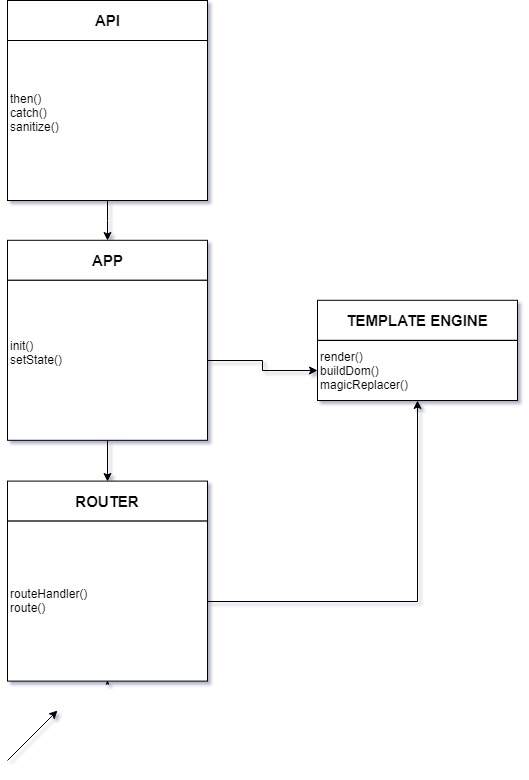
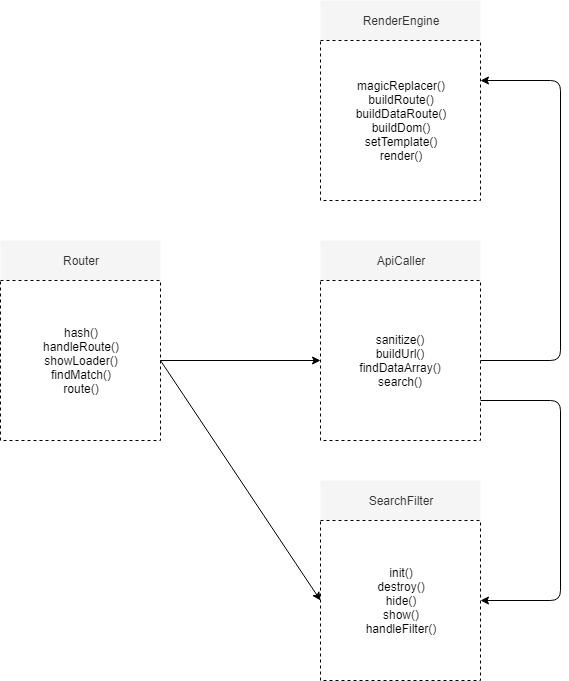
docs

diff --git a/modules/SearchFilter.js b/modules/SearchFilter.js
@@ -12,7 +12,6 @@ class Filter{
 			this.elements = document.querySelectorAll(".source");
 			this.container = document.querySelector("#view");
 			this.kb = this.input.addEventListener("keyup",this.handleFilter.bind(this),true);
-			console.log(this.container);
 		}
 	}
 
@@ -22,11 +21,17 @@ class Filter{
 		}
 	}
 
+	hide() {
+		document.getElementById("ui").classList.add("hide");
+	}
+
+	show() {
+		document.getElementById("ui").classList.remove("hide");
+	}
+
 	handleFilter() {
-		console.log(this.container)
 		this.container.innerHTML = "";
 		const newElements = [];
-		console.log(this.input.value);
 		for(let i = 0; i < this.elements.length; i++) {
 		    if(this.elements[i].querySelector("h1").innerHTML.toLowerCase().indexOf(this.input.value) >= 0) {
 		      newElements.push(this.elements[i])

diff --git a/modules/router.js b/modules/router.js
@@ -14,7 +14,6 @@ class Router{
 	  this.initialRoute = initial;
 	  this.loadInterval = null;
 	  if(!window.location.hash){
-	  	console.log(window.location.hash);
 	  	window.location.hash = this.initialRoute;
 	  };
 	  window.onload = () => {
@@ -33,13 +32,15 @@ class Router{
 
 		if(window.location.hash !== "#home") {
 			filter.destroy();
+			filter.hide();
+		}else if(window.location.hash === "#home") {
+			filter.show();
 		}
 		const param = this.hash();	
 		this.findMatch(param);
 	};
 
 	showLoader() {
-		console.log("check")
 		if(!document.querySelector("#loader")) {
 			document.querySelector("#view").innerHTML = `
 				<div id="loader">

diff --git a/modules/renderengine.js b/modules/renderengine.js
@@ -51,7 +51,6 @@ class RenderEngine extends EasyRequest{
 		super.open("GET",this.templateRoute,true);
 		super.send();
 		this.data = data;
-		console.log(data);
 		this.then((res) => {
 			this.buildDom(res);
 			cb();

diff --git a/css/style.css b/css/style.css
@@ -39,3 +39,12 @@ section a {
 	text-align: center;
 	text-decoration: none;
 }
+
+#ui {
+	position: fixed;
+	transition: 0.5s;
+}
+
+.hide {
+	transform: translateY(-50px);
+}

diff --git a/README.md b/README.md
@@ -1,4 +1,5 @@
 # WAFS
+![Home](./assets/home.jpg)
 
 ## Demo
 [Here](https://zekkie.github.io/web-app-from-scratch-18-19/)
@@ -8,14 +9,21 @@
  I'm using the api of the newsapi. Funny enough that is the actual name of the api. 
  [Can be found here](https://newsapi.org)
 
+### Type 
+Rest
+
+### Ratelimit
+1000 calls per day
+
+### Enpoints used
+
+/source
+/everything
 
 ## App discription
 
-The is basicly a news reader where users can read newsarticles of different papers. The ratelimit for the DEV api is unfortunatly only 1000 requests per day.
+The is basicly a news reader where users can read newsarticles from different papers. 
 
-## What have I been doing untill  now
-I came across some problems with the API I initially wanted to use. Important part's are no longer usable without the aproval of the author first. And Oauth.. You don't want to come across this during this assignment.
-I've been experimenting with classes and inheriting in JS. Came up with a solution that might be redundant, but I think it is a good exercise. 
 
 
 ## Actor Diagram
@@ -29,6 +37,8 @@ I've been experimenting with classes and inheriting in JS. Came up with a soluti
 
 ## Custom render engine 
 ```javascript
+
+
 
 'use-strict'
 
@@ -74,6 +84,23 @@ export default RenderEngine;
 
 ```
 
+### Workings
+
+The engine fetches an html template trough a XMLHTTPRequest and then replaces the handlebars inside the template with the corresponding data attribute. And that gets put into the view. 
+An html template looks like this:
+
+```html
+<section>
+	<div class="content">
+		<h1>{title}</h1>
+		<img src={image} alt="">
+		<p>{content}</p>
+	</div>
+	<a href={url} about="_blank">Read More</a>
+</section>
+
+```
+
 ## Why classes
 
 My motivation for the use of classes is, I always try to build my code in a way so it is modular and serves multiple usecases. Using classes in my opinion helps with this.
@@ -85,18 +112,3 @@ My motivation for the use of classes is, I always try to build my code in a way 
 class RenderEngine extends EasyRequest{
 
 ```
-
-
-## Design patterns
-
-At this moment I'm using the OOP design pattern. Later during the assignment I'm going to make use of the module pattern. Maybe even IIFE's. 
-
-
-
-## Wishes for the app
-
-I want to give the user the possibility not only to read the news that is on the homepage. But where they can browse to other news sources/papers. So the news is not just limited to one source.
-
-
-
-### To be continued
